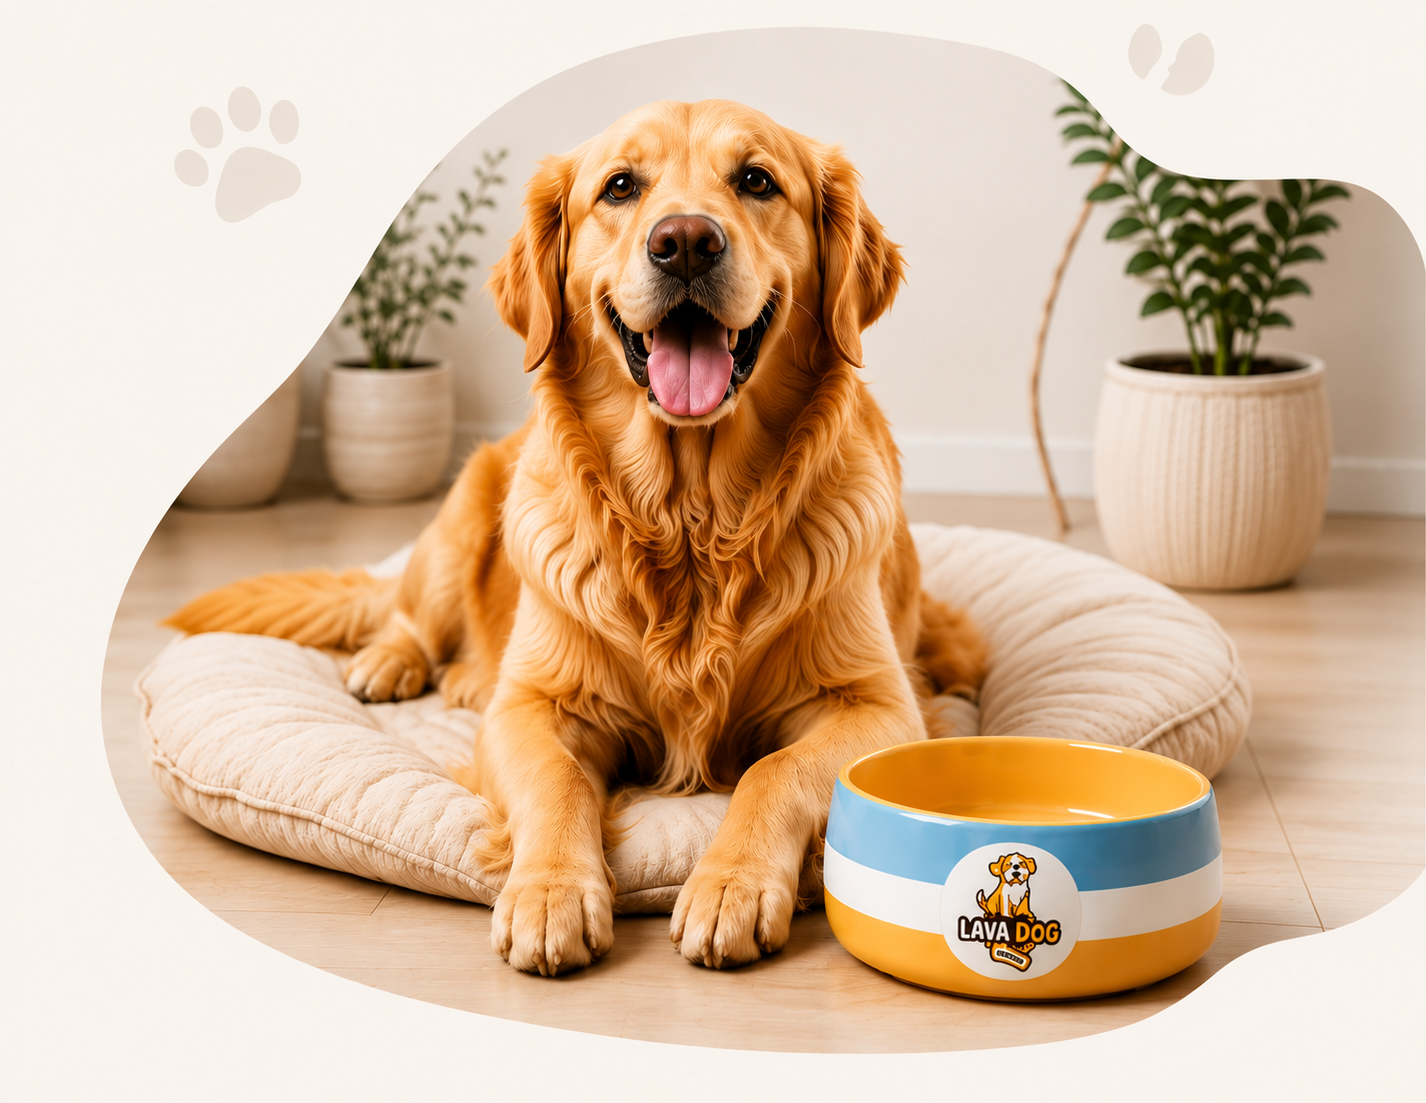
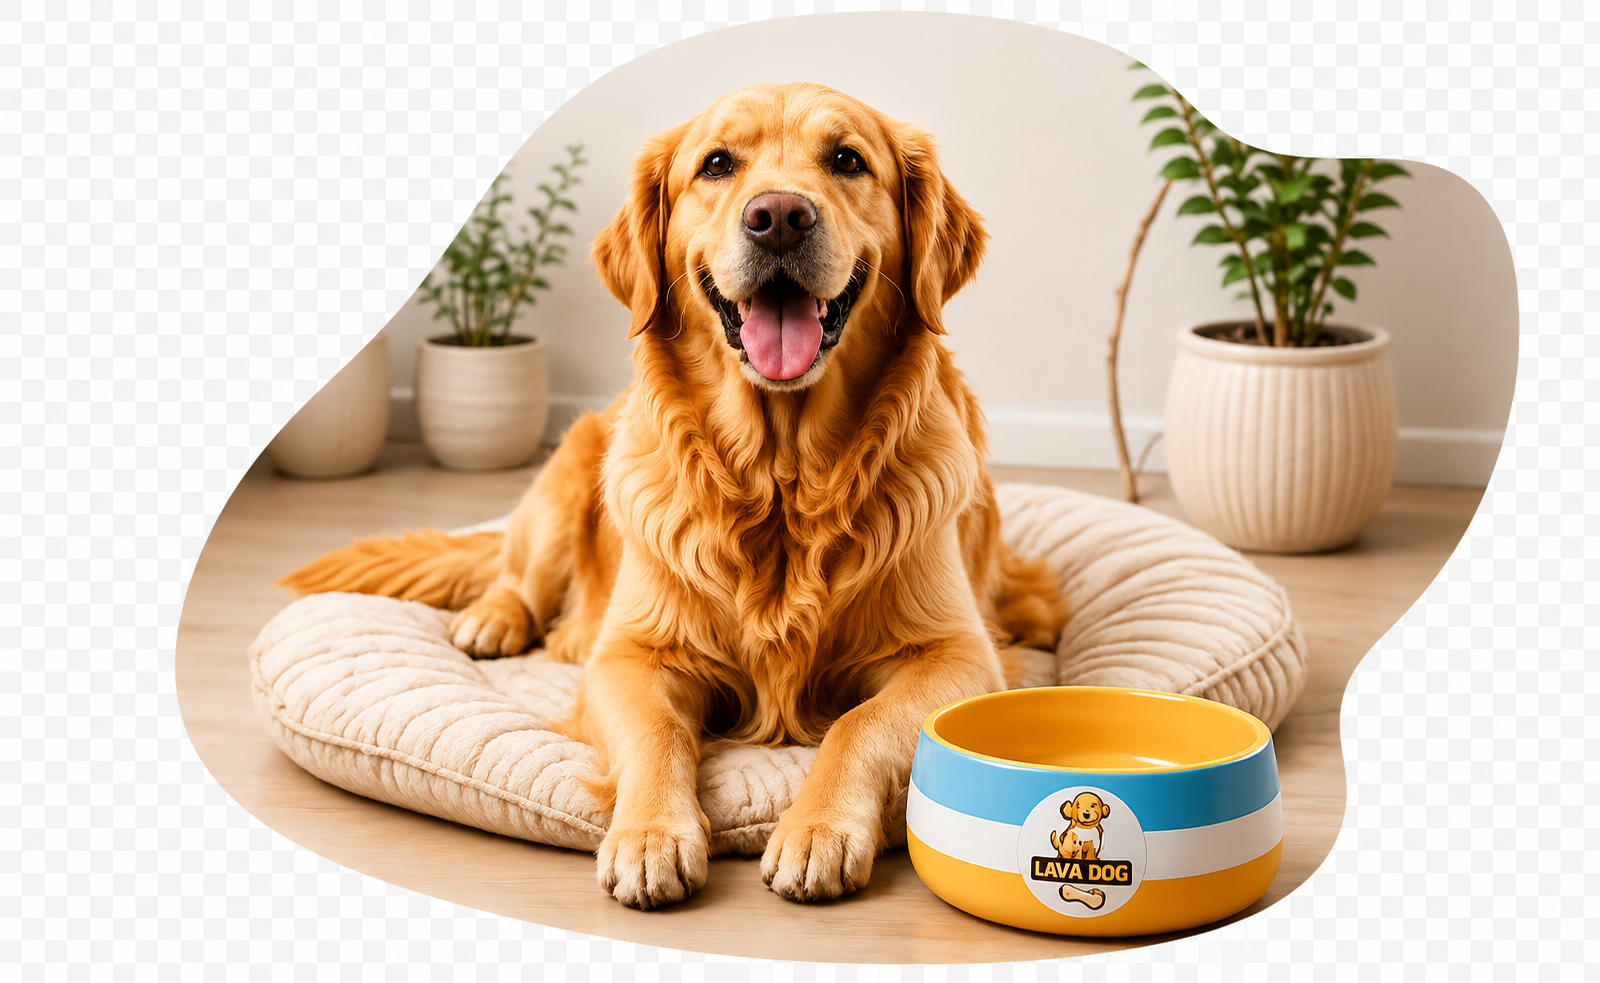
hero

diff --git a/components/sections/hero/hero-content.tsx b/components/sections/hero/hero-content.tsx
@@ -2,32 +2,33 @@ import { Crown } from "lucide-react";
 import { ScrollReveal } from "@/components/animations/scroll-reveal";
 import { HeroCtas } from "@/components/sections/hero/hero-ctas";
 import { HeroTrustBadges } from "@/components/sections/hero/hero-trust-badges";
+import { MobileHeroImage } from "@/components/sections/hero/mobile-hero-image";
 
 export function HeroContent() {
   return (
-    <div className="flex flex-col gap-6 lg:text-left items-start">
+    <div className="relative flex flex-col items-start gap-6 lg:text-left">
       <ScrollReveal direction="up">
-        <Crown
-          className="mx-auto size-7 md:size-10 text-primary lg:mx-0 -mb-4"
-          strokeWidth={1.5}
-        />
+        <Crown className="mx-auto size-7 md:size-10 text-primary lg:mx-0 -mb-4" strokeWidth={1.5} />
       </ScrollReveal>
 
       <ScrollReveal direction="up" delay={0.1}>
-        <h1 className="font-display text-4xl font-bold leading-tight tracking-tight text-foreground sm:text-5xl lg:text-6xl md:max-w-2xl">
-          <span className="block md:inline">Mais que um</span>{" "}
-          <span className="block md:inline">pet shop,</span>
-          <span className="block md:inline">um lugar de</span>{" "}
-          <span className="block whitespace-nowrap md:inline">
-            <span className="text-primary">amor</span>{" "}
-            <span className="text-primary md:text-blue">e</span>
-          </span>{" "}
-          <span className="block md:inline text-blue">cuidado.</span>
-        </h1>
+        <div className="relative">
+          <h1 className="font-display text-4xl font-bold leading-tight tracking-tight text-foreground sm:text-5xl lg:text-6xl md:max-w-2xl">
+            <span className="block md:inline">Mais que um</span>{" "}
+            <span className="block md:inline">pet shop,</span>
+            <span className="block md:inline">um lugar de</span>{" "}
+            <span className="block whitespace-nowrap md:inline">
+              <span className="text-primary">amor</span>{" "}
+              <span className="text-primary md:text-blue">e</span>
+            </span>{" "}
+            <span className="block md:inline text-blue">cuidado.</span>
+          </h1>
+          <MobileHeroImage />
+        </div>
       </ScrollReveal>
 
       <ScrollReveal direction="up" delay={0.2}>
-        <p className="mx-auto max-w-md text-base leading-relaxed text-muted-foreground sm:text-lg lg:mx-0 ">
+        <p className="w-[66%] max-w-md text-left text-base leading-relaxed text-muted-foreground sm:w-full sm:text-lg lg:mx-0">
           Produtos premium e serviços especializados para o bem-estar e a felicidade do seu melhor
           amigo, todos os dias.
         </p>

diff --git a/components/sections/hero/hero-trust-badges.tsx b/components/sections/hero/hero-trust-badges.tsx
@@ -14,10 +14,10 @@ export function HeroTrustBadges() {
           key={label}
           className="flex flex-col items-center gap-2.5 text-center sm:flex-row sm:whitespace-nowrap sm:text-left"
         >
-          <span className="flex size-9 shrink-0 items-center justify-center rounded-full border border-[#F2E2D2] text-blue-strong">
-            <Icon className="size-4.5" />
+          <span className="flex size-12 shrink-0 items-center justify-center rounded-full border border-[#F2E2D2] text-blue-strong">
+            <Icon className="size-8 text-blue" />
           </span>
-          <span className="max-w-28 text-sm font-medium leading-tight text-foreground/80">
+          <span className="max-w-28 text-sm font-medium leading-tight text-foreground/80 lg:max-w-30 text-wrap">
             {label}
           </span>
         </li>

diff --git a/components/sections/hero/hero.tsx b/components/sections/hero/hero.tsx
@@ -1,12 +1,12 @@
 import { HeroContent } from "@/components/sections/hero/hero-content";
-import { HeroImagem } from "@/components/sections/hero/hero-imagem";
+import { HeroDesktopImagem } from "@/components/sections/hero/hero-imagem";
 
 export function Hero() {
   return (
     <section id="hero" className="bg-background px-4 py-16 sm:px-6 sm:py-20 lg:px-8 lg:py-28">
       <div className="relative mx-auto grid max-w-7xl items-center gap-14 lg:grid-cols-2 lg:gap-16">
         <HeroContent />
-        <HeroImagem />
+        <HeroDesktopImagem />
       </div>
     </section>
   );

diff --git a/components/layout/navbar/navbar-actions.tsx b/components/layout/navbar/navbar-actions.tsx
@@ -34,7 +34,7 @@ export function NavbarActions({ className, cartCount = 0 }: NavbarActionsProps) 
         aria-label="Carrinho de compras"
       >
         <ShoppingBag className="size-4.5" />
-        <span className="absolute -right-1 -top-1 flex size-4 items-center justify-center rounded-full bg-primary text-[10px] font-bold text-primary-foreground">
+        <span className="absolute -right-1 -top-1 flex size-4 items-center justify-center rounded-full bg-primary text-[10px] font-bold text-primary-foreground pt-0.5">
           {cartCount}
         </span>
       </Link>

diff --git a/components/sections/hero/mobile-hero-image.tsx b/components/sections/hero/mobile-hero-image.tsx
@@ -1,0 +1,7 @@
+export function MobileHeroImage() {
+  return (
+    <div className="absolute right-[-9rem] top-0 z-10 block sm:hidden">
+      <img src="/images/dogfoots.png" alt="Pé de cachorro decorativo" className="w-28 opacity-90" />
+    </div>
+  );
+}

diff --git a/components/sections/hero/hero-imagem.tsx b/components/sections/hero/hero-imagem.tsx
@@ -1,4 +1,4 @@
-export function HeroImagem() {
+export function HeroDesktopImagem() {
   return (
     <div className="flex justify-center lg:justify-end">
       <img
